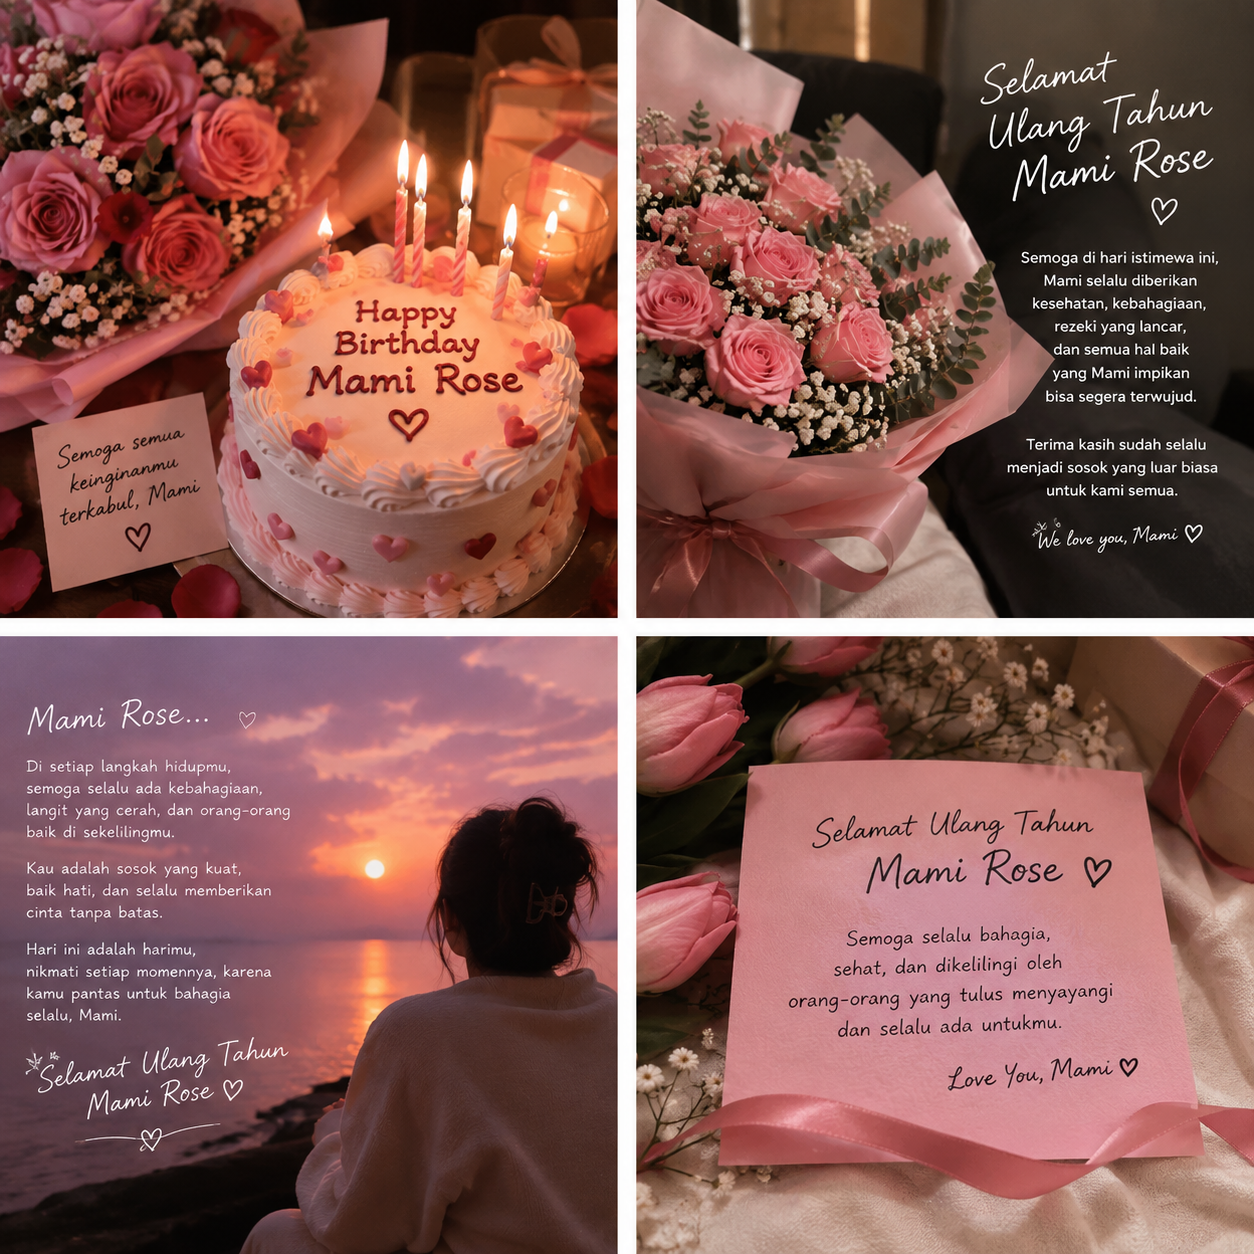
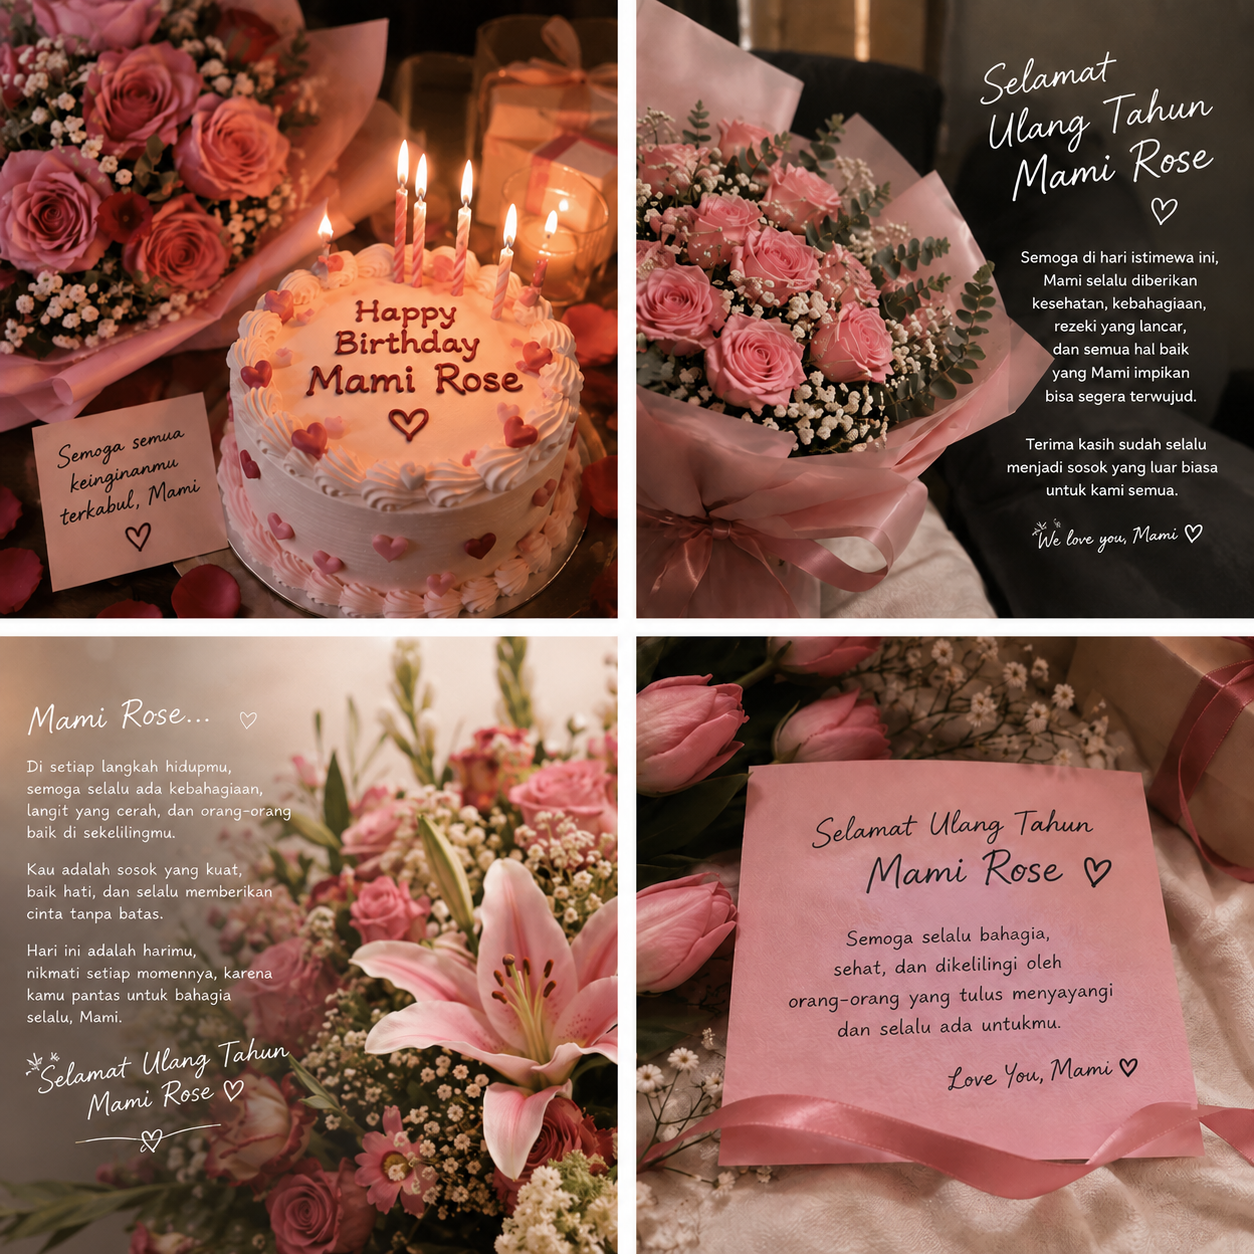
Update projecttig

diff --git a/index.html b/index.html
@@ -1044,7 +1044,6 @@ body{
     overflow:hidden;
     line-height:0;
 
-    /* Background khusus untuk area VIDEO */
     background:
         radial-gradient(
             circle at 15% 20%,
@@ -1906,11 +1905,9 @@ body{
 }
 
 .credit-from{
-    color:#378b6c;
+    color:#6b8078;
 
-    font-size:25px;
-
-    font-weight:800;
+    font-size:16px;
 
     margin-bottom:8px;
 }
@@ -1930,7 +1927,9 @@ body{
 
     font-weight:800;
 
-    text-transform:lowercase;
+    /* DIPERBAIKI:
+       nama tidak lagi otomatis huruf kecil */
+    text-transform:none;
 
     margin-bottom:18px;
 }
@@ -2279,6 +2278,7 @@ body{
         font-size:26px;
     }
 
+
 /* =================================================
    1 FOTO HERO - BINGKAI ULANG TAHUN MOBILE
 ================================================= */
@@ -2314,9 +2314,11 @@ body{
     object-fit:contain;
     box-sizing:border-box;
 }
-    /* =================================================
-       DOKUMENTASI MOBILE
-    ================================================= */
+
+
+/* =================================================
+   DOKUMENTASI MOBILE
+================================================= */
 
     .penutup-photos{
         width:100%;
@@ -2352,9 +2354,9 @@ body{
     }
 
 
-    /* =================================================
-       CLOSING MOBILE
-    ================================================= */
+/* =================================================
+   CLOSING MOBILE
+================================================= */
 
     .closing{
         padding:
@@ -2428,7 +2430,7 @@ body{
     }
 
 
-    /* FRAME MOBILE */
+/* FRAME MOBILE */
 
     .website-frame::before{
         inset:7px;
@@ -2524,11 +2526,11 @@ body{
     }
 
 
+/* =================================================
+   PANTUN RESPONSIF HP
+   HP: FOTO DI ATAS, PANTUN DI BAWAH
+================================================= */
 
-    /* =================================================
-       PANTUN RESPONSIF HP
-       HP: FOTO DI ATAS, PANTUN DI BAWAH
-    ================================================= */
     .pantun-section{
         width:100%;
         padding:45px 14px 55px;
@@ -2590,8 +2592,10 @@ body{
 }
 
 
+/* =====================================================
+   VIDEO: SATU BINGKAI PINK + BALON
+===================================================== */
 
-/* ===== VIDEO: SATU BINGKAI PINK + BALON ===== */
 .birthday-video{
     position:relative !important;
     width:min(1200px,96vw) !important;
@@ -2602,11 +2606,28 @@ body{
     border-radius:30px !important;
     overflow:visible !important;
     line-height:0 !important;
+
     background:
-        radial-gradient(circle at 15% 20%,rgba(255,255,255,.95),transparent 32%),
-        radial-gradient(circle at 85% 80%,rgba(255,215,235,.85),transparent 38%),
-        linear-gradient(135deg,#ffd6e8,#fff0f7,#f8c8df) !important;
-    box-shadow:0 12px 30px rgba(230,90,145,.18) !important;
+        radial-gradient(
+            circle at 15% 20%,
+            rgba(255,255,255,.95),
+            transparent 32%
+        ),
+        radial-gradient(
+            circle at 85% 80%,
+            rgba(255,215,235,.85),
+            transparent 38%
+        ),
+        linear-gradient(
+            135deg,
+            #ffd6e8,
+            #fff0f7,
+            #f8c8df
+        ) !important;
+
+    box-shadow:
+        0 12px 30px
+        rgba(230,90,145,.18) !important;
 }
 
 .birthday-video::before,
@@ -2616,7 +2637,12 @@ body{
     font-size:42px !important;
     line-height:1 !important;
     pointer-events:none !important;
-    filter:drop-shadow(0 5px 5px rgba(200,70,120,.18));
+
+    filter:
+        drop-shadow(
+            0 5px 5px
+            rgba(200,70,120,.18)
+        );
 }
 
 .birthday-video::before{
@@ -2645,6 +2671,7 @@ body{
 }
 
 @media(max-width:600px){
+
     .birthday-video{
         width:94vw !important;
         margin-top:28px !important;
@@ -2660,14 +2687,20 @@ body{
         top:-21px !important;
     }
 
-    .birthday-video::before{ left:12px !important; }
-    .birthday-video::after{ right:12px !important; }
+    .birthday-video::before{
+        left:12px !important;
+    }
+
+    .birthday-video::after{
+        right:12px !important;
+    }
 
     .birthday-video video{
         padding:0 !important;
         border:0 !important;
         border-radius:16px !important;
     }
+
 }
 
 </style>
@@ -2741,16 +2774,12 @@ body{
     class="birthday-intro"
     id="birthdayIntro">
 
-    <!-- COUNTDOWN -->
-
     <div
         class="countdown-text"
         id="countdownText">
         3
     </div>
 
-
-    <!-- TEKS ULANG TAHUN -->
 
     <div class="intro-text intro-happy">
         HAPPY
@@ -2864,10 +2893,10 @@ body{
     ================================================= -->
 
     <div class="video-section-title">
-    🎬💖 Video Ucapan Singkat 💖🎬
-</div>
+        🎬💖 Video Ucapan Singkat 💖🎬
+    </div>
 
-<div class="birthday-video">
+    <div class="birthday-video">
 
         <video
             src="images/video.mp4"
@@ -2907,9 +2936,7 @@ body{
                     </div>
 
                     <div class="chat-bubble">
-
                         💕 Hari ini bukan hanya tentang bertambahnya usia, tapi tentang merayakan seseorang yang keberadaannya begitu berarti.
-
                     </div>
 
                 </div>
@@ -2931,9 +2958,7 @@ body{
                     </div>
 
                     <div class="chat-bubble">
-
                         🌷 Semoga selalu diberikan banyak alasan untuk bahagia, banyak momen untuk tersenyum, dan banyak orang yang tulus menyayangi Mami.
-
                     </div>
 
                 </div>
@@ -2955,9 +2980,7 @@ body{
                     </div>
 
                     <div class="chat-bubble">
-
                         ❤ Semoga segala lelah yang pernah di rasakan digantikan dengan hari-hari yang lebih tenang dan penuh kebahagiaan.
-
                     </div>
 
                 </div>
@@ -2979,9 +3002,7 @@ body{
                     </div>
 
                     <div class="chat-bubble">
-
                         🥰 Kalau suatu saat hari terasa berat, semoga Mami selalu ingat bahwa ada seseorang yang begitu menyayangi dan menghargai keberadaan Mami.
-
                     </div>
 
                 </div>
@@ -3003,9 +3024,7 @@ body{
                     </div>
 
                     <div class="chat-bubble">
-
                         ✨ Terima kasih untuk semua hal kecil maupun besar yang mungkin tidak selalu terlihat, tetapi ternyata begitu berarti.
-
                     </div>
 
                 </div>
@@ -3027,9 +3046,7 @@ body{
                     </div>
 
                     <div class="chat-bubble">
-
                         🎂 Selamat ulang tahun, Mami. Semoga tahun ini menjadi awal dari banyak cerita indah yang belum pernah Mami temukan sebelumnya.
-
                     </div>
 
                 </div>
@@ -3174,14 +3191,27 @@ body{
         </div>
 
 
+        <!-- =============================================
+             PENUTUP SUDAH DIUBAH SESUAI PERMINTAAN
+             
+             DARI
+             DEDE SENG
+             UNTUK
+             MAMI ROSE
+        ============================================== -->
+
         <div class="closing-credit">
 
             <div class="credit-from">
-                Dari Dede Seng
+                Dari
+            </div>
+
+            <div class="credit-name">
+                Dede Seng
             </div>
 
             <div class="credit-for">
-                untuk
+                Untuk
             </div>
 
             <div class="credit-name">
@@ -3189,11 +3219,11 @@ body{
             </div>
 
             <div class="credit-desc">
-                dirancang web khusus untuk orang spesial
+                Dirancang web khusus untuk orang spesial
             </div>
 
             <div class="credit-by">
-                by faisal/Dede Seng
+                Developer by faisal/Dede Seng
             </div>
 
         </div>
@@ -3374,13 +3404,6 @@ function bukaKartu(){
         void countdownText.offsetWidth;
 
 
-        /*
-         * ============================================
-         * COUNTDOWN
-         * 3 -> 2 -> 1
-         * ============================================
-         */
-
         countdownText.textContent = "3";
 
         countdownText.classList.add("show");
@@ -3412,13 +3435,6 @@ function bukaKartu(){
         },1800);
 
 
-        /*
-         * ============================================
-         * SETELAH COUNTDOWN
-         * HAPPY -> BIRTHDAY -> MAMI ROSE
-         * ============================================
-         */
-
         setTimeout(function(){
 
             countdownText.classList.remove("show");
@@ -3447,12 +3463,6 @@ function bukaKartu(){
 
         },6000);
 
-
-        /*
-         * ============================================
-         * SELESAI INTRO
-         * ============================================
-         */
 
         setTimeout(function(){
 
